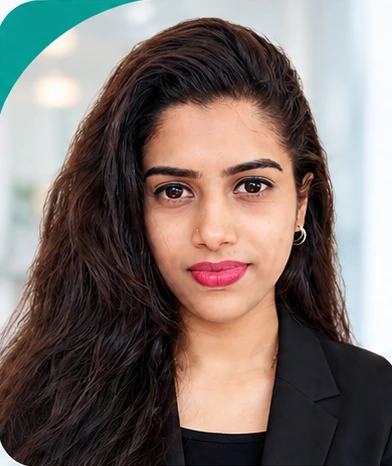
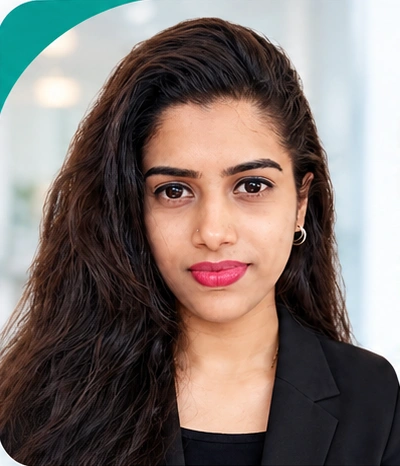
Leadership photos: remove edge fade, show full shoulders
Claude-Session: https://claude.ai/code/session_01JfxxoaP7tdXm9dFUwkzdj2

diff --git a/builder_source/styles.css b/builder_source/styles.css
@@ -289,11 +289,11 @@ main{overflow-x:clip}
 .lead{position:relative;display:grid;grid-template-columns:48% 1fr;align-items:center;min-height:300px;background:linear-gradient(120deg,#F3F8FA 0%,#fff 60%);border-radius:24px;overflow:hidden;box-shadow:0 14px 36px rgba(11,61,107,.12)}
 .lead::after{content:"";position:absolute;right:-40px;bottom:-70px;width:340px;height:120px;background:var(--teal);border-radius:100% 0 0 0/100% 0 0 0;z-index:0}
 .lead-photo{position:relative;z-index:1;align-self:stretch;height:100%;display:flex}
-.lead-photo img{width:100%;height:100%;object-fit:cover;object-position:left top;display:block;-webkit-mask-image:linear-gradient(90deg,#000 80%,transparent);mask-image:linear-gradient(90deg,#000 80%,transparent)}
+.lead-photo img{width:100%;height:100%;object-fit:cover;object-position:left top;display:block}
 .lead-info{position:relative;z-index:1;padding:28px 26px 52px 6px;text-align:left}
 .lead-info h3{font-size:1.6rem;line-height:1.15;color:var(--navy-2,#0B2545);font-weight:700}
 .lead-line{display:block;width:70%;height:2px;background:var(--teal);margin:14px 0}
 .lead-info .role{color:var(--teal-ink);font-weight:600;font-size:1.08rem;line-height:1.35}
 .lead-mail{display:flex;align-items:center;gap:10px;margin-top:18px;color:var(--ink,#1b2b3a);font-size:.92rem;text-decoration:none;overflow-wrap:anywhere}
 .lead-mail i{flex:none;width:32px;height:32px;border-radius:50%;background:var(--teal);display:grid;place-items:center}
-@media(max-width:560px){.lead-head .ln{display:none}.lead-head h2{display:block}.lead{grid-template-columns:42% 1fr;min-height:0;height:190px;align-items:stretch}.lead-photo{align-self:stretch;height:190px;padding-top:0;overflow:hidden}.lead-photo img{width:100%;height:100%;max-height:none;object-fit:cover;object-position:left top}.lead-info{align-self:center;padding:8px 12px 22px 4px;background:none}.lead-info h3{font-size:1.05rem}.lead-line{width:80%;margin:7px 0}.lead-info .role{font-size:.8rem}.lead-mail{font-size:.7rem;gap:6px;margin-top:8px;overflow-wrap:normal;word-break:normal;white-space:normal;line-height:1.3}.lead-mail i{width:24px;height:24px}.lead-mail i svg{width:12px;height:12px}.lead::after{width:160px;height:60px;bottom:-38px}}
+@media(max-width:560px){.lead-head .ln{display:none}.lead-head h2{display:block}.lead{grid-template-columns:46% 1fr;min-height:0;height:200px;align-items:stretch}.lead-photo{align-self:stretch;height:200px;padding-top:0;overflow:hidden}.lead-photo img{width:100%;height:100%;max-height:none;object-fit:cover;object-position:center top}.lead-info{align-self:center;padding:8px 12px 22px 4px;background:none}.lead-info h3{font-size:1.05rem}.lead-line{width:80%;margin:7px 0}.lead-info .role{font-size:.8rem}.lead-mail{font-size:.7rem;gap:6px;margin-top:8px;overflow-wrap:normal;word-break:normal;white-space:normal;line-height:1.3}.lead-mail i{width:24px;height:24px}.lead-mail i svg{width:12px;height:12px}.lead::after{width:160px;height:60px;bottom:-38px}}

diff --git a/styles.css b/styles.css
@@ -289,11 +289,11 @@ main{overflow-x:clip}
 .lead{position:relative;display:grid;grid-template-columns:48% 1fr;align-items:center;min-height:300px;background:linear-gradient(120deg,#F3F8FA 0%,#fff 60%);border-radius:24px;overflow:hidden;box-shadow:0 14px 36px rgba(11,61,107,.12)}
 .lead::after{content:"";position:absolute;right:-40px;bottom:-70px;width:340px;height:120px;background:var(--teal);border-radius:100% 0 0 0/100% 0 0 0;z-index:0}
 .lead-photo{position:relative;z-index:1;align-self:stretch;height:100%;display:flex}
-.lead-photo img{width:100%;height:100%;object-fit:cover;object-position:left top;display:block;-webkit-mask-image:linear-gradient(90deg,#000 80%,transparent);mask-image:linear-gradient(90deg,#000 80%,transparent)}
+.lead-photo img{width:100%;height:100%;object-fit:cover;object-position:left top;display:block}
 .lead-info{position:relative;z-index:1;padding:28px 26px 52px 6px;text-align:left}
 .lead-info h3{font-size:1.6rem;line-height:1.15;color:var(--navy-2,#0B2545);font-weight:700}
 .lead-line{display:block;width:70%;height:2px;background:var(--teal);margin:14px 0}
 .lead-info .role{color:var(--teal-ink);font-weight:600;font-size:1.08rem;line-height:1.35}
 .lead-mail{display:flex;align-items:center;gap:10px;margin-top:18px;color:var(--ink,#1b2b3a);font-size:.92rem;text-decoration:none;overflow-wrap:anywhere}
 .lead-mail i{flex:none;width:32px;height:32px;border-radius:50%;background:var(--teal);display:grid;place-items:center}
-@media(max-width:560px){.lead-head .ln{display:none}.lead-head h2{display:block}.lead{grid-template-columns:42% 1fr;min-height:0;height:190px;align-items:stretch}.lead-photo{align-self:stretch;height:190px;padding-top:0;overflow:hidden}.lead-photo img{width:100%;height:100%;max-height:none;object-fit:cover;object-position:left top}.lead-info{align-self:center;padding:8px 12px 22px 4px;background:none}.lead-info h3{font-size:1.05rem}.lead-line{width:80%;margin:7px 0}.lead-info .role{font-size:.8rem}.lead-mail{font-size:.7rem;gap:6px;margin-top:8px;overflow-wrap:normal;word-break:normal;white-space:normal;line-height:1.3}.lead-mail i{width:24px;height:24px}.lead-mail i svg{width:12px;height:12px}.lead::after{width:160px;height:60px;bottom:-38px}}
+@media(max-width:560px){.lead-head .ln{display:none}.lead-head h2{display:block}.lead{grid-template-columns:46% 1fr;min-height:0;height:200px;align-items:stretch}.lead-photo{align-self:stretch;height:200px;padding-top:0;overflow:hidden}.lead-photo img{width:100%;height:100%;max-height:none;object-fit:cover;object-position:center top}.lead-info{align-self:center;padding:8px 12px 22px 4px;background:none}.lead-info h3{font-size:1.05rem}.lead-line{width:80%;margin:7px 0}.lead-info .role{font-size:.8rem}.lead-mail{font-size:.7rem;gap:6px;margin-top:8px;overflow-wrap:normal;word-break:normal;white-space:normal;line-height:1.3}.lead-mail i{width:24px;height:24px}.lead-mail i svg{width:12px;height:12px}.lead::after{width:160px;height:60px;bottom:-38px}}
